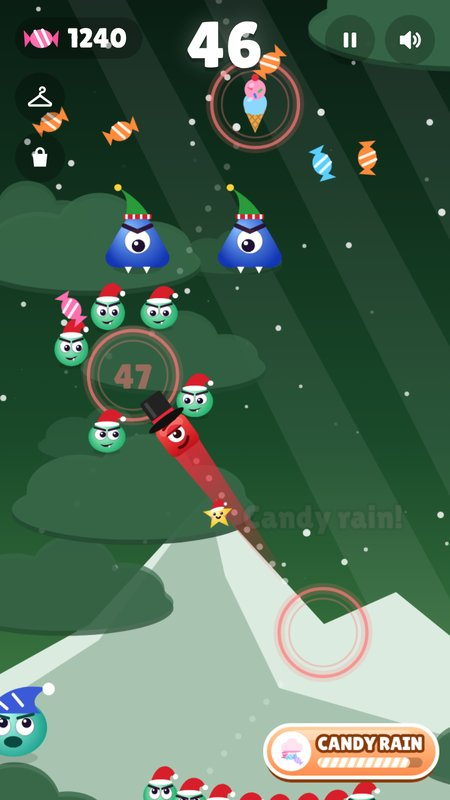
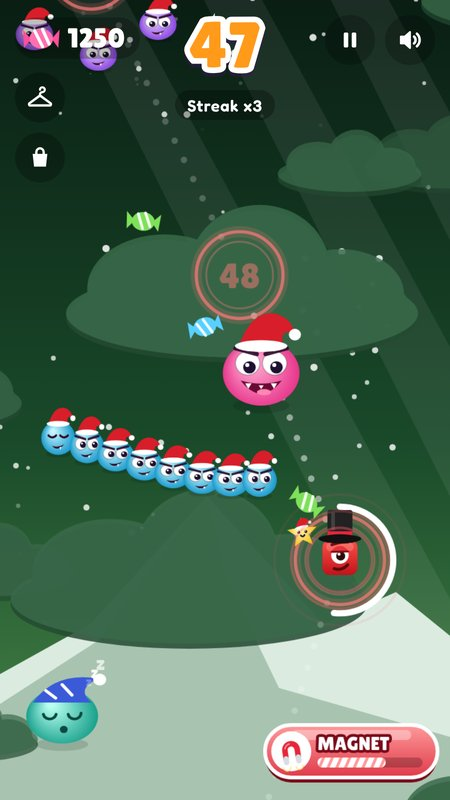
Paneles de caramelo con lunares y borde con labio, cintas con puntas dobladas y letras tipo sticker

diff --git a/index.html b/index.html
@@ -29,8 +29,7 @@ body{height:100%;margin:0;background:var(--void);color:var(--ink);font-family:va
 #game.gray{filter:grayscale(1) brightness(1.05)}
 
 #hud{position:absolute;top:10px;left:0;right:0;display:flex;justify-content:center;pointer-events:none}
-#score{font-family:var(--display);font-size:52px;line-height:1;color:#fff;
-  text-shadow:0 3px 0 rgba(0,0,0,.25),0 0 18px rgba(255,255,255,.25);font-variant-numeric:tabular-nums}
+#score{font-family:var(--display);font-size:52px;line-height:1;color:#ff9a1a;--sw:9px;--ss:rgba(60,20,90,.45);font-variant-numeric:tabular-nums}
 #candy{position:absolute;top:14px;left:max(12px,env(safe-area-inset-left,0px));display:flex;align-items:center;gap:6px;
   padding:4px 12px 4px 6px;border-radius:99px;background:rgba(0,0,0,.25);pointer-events:none;transition:transform .12s}
 #candy.bump{transform:scale(1.18)}
@@ -264,7 +263,7 @@ body[data-ev="christmas"] #evBtn{background:rgba(255,255,255,.18)}
 .item canvas,.item img{width:64px;height:64px}
 .buy{border:0;border-radius:99px;padding:4px 10px;font:600 12px var(--body);cursor:pointer;background:#e0408e;color:#fff;min-width:64px}
 .buy:disabled{background:#c9b8a8;cursor:not-allowed}
-.sheet{scrollbar-width:none;overflow-x:hidden;box-sizing:border-box;width:min(100%,440px);max-height:100%;overflow:auto;background:linear-gradient(#fbeacb,var(--cream));border:6px solid var(--cream-edge);border-radius:28px;
+.sheet{scrollbar-width:none;overflow-x:hidden;box-sizing:border-box;width:min(100%,440px);max-height:100%;overflow:auto;background:var(--candyPanel);border:6px solid #fff;box-shadow:var(--candyRim);border-radius:28px;
   padding:18px 16px 20px;display:flex;flex-direction:column;align-items:center;gap:10px;color:#5b3210}
 .sheet > .pill{display:none}   /* closing is done with the X at the top (and by tapping outside) */
 .xClose{position:sticky;top:0;align-self:flex-end;margin:-6px -4px -44px 0;z-index:3;width:42px;height:42px;flex:none;border-radius:50%;cursor:pointer;
@@ -301,9 +300,24 @@ body[data-ev="christmas"] #evBtn{background:rgba(255,255,255,.18)}
 @keyframes pulse{50%{transform:scale(1.08);opacity:.8}}
 
 #over{background:rgba(30,30,30,.25)}
-.card{position:relative;width:min(86%,330px);background:linear-gradient(#fbeacb,var(--cream));border:6px solid var(--cream-edge);
-  border-radius:34px;padding:58px 20px 26px;box-shadow:0 18px 40px rgba(0,0,0,.35);
+.card{position:relative;width:min(86%,330px);background:var(--candyPanel);border:6px solid #fff;
+  border-radius:34px;padding:58px 20px 26px;box-shadow:var(--candyRim);
   display:flex;flex-direction:column;align-items:center;gap:14px;animation:panelIn .62s both}
+/* candy panels: cream with soft pink and orange dots, a shine on top, a white edge and a caramel rim with a darker lip below */
+:root{--candyPanel:radial-gradient(closest-side,rgba(255,255,255,.8),rgba(255,255,255,0)) 50% 6px/84% 28px no-repeat,
+  radial-gradient(circle,rgba(255,150,190,.2) 3px,transparent 3.5px) 0 0/22px 22px,radial-gradient(circle,rgba(255,190,110,.2) 3px,transparent 3.5px) 11px 11px/22px 22px,linear-gradient(#fff6e2,#fbe2b8);
+  --candyRim:0 0 0 5px #d99a52,0 9px 0 5px #a8662a,0 18px 30px rgba(0,0,0,.4),inset 0 -6px 0 rgba(200,140,70,.25)}
+/* sticker lettering: a thick white outline and a drop below */
+.sheet h2,.card .hint,.scores b,#score{paint-order:stroke fill;-webkit-text-stroke:var(--sw,8px) #fff;filter:drop-shadow(0 3px 0 var(--ss,rgba(120,50,10,.4)))}
+.sheet h2{color:#e8263a;--ss:rgba(140,20,10,.4)}
+.card .hint{--sw:6px}
+.card .hint.red{color:#e8263a;--ss:rgba(120,10,10,.35)}.card .hint.green{color:#2fae2c;--ss:rgba(20,80,20,.35)}
+.scores b{--sw:7px}
+/* title ribbons fold back at both ends, like a gift ribbon */
+.ribbon{--rd:var(--red-deep)}.ribbon.blue{--rd:#1a3a9a}.ribbon.gold{--rd:#a86400}#over.record .ribbon{--rd:#145214}
+.ribbon::before,.ribbon::after{content:"";position:absolute;z-index:-1;top:18px;bottom:-12px;width:30px;background:var(--rd)}
+.ribbon::before{right:100%;clip-path:polygon(0 0,100% 0,100% 100%,0 100%,32% 50%)}
+.ribbon::after{left:100%;clip-path:polygon(0 0,100% 0,68% 50%,100% 100%,0 100%)}
 .ribbon{position:absolute;top:-26px;left:50%;transform:translateX(-50%);font-family:var(--display);font-size:40px;color:#fff;
   padding:4px 26px 8px;border-radius:20px;background:linear-gradient(#ff5b3a,var(--red));border:4px solid #fff;
   box-shadow:0 5px 0 var(--red-deep),0 10px 18px rgba(0,0,0,.25);text-shadow:0 3px 0 var(--red-deep);white-space:nowrap}
@@ -319,7 +333,7 @@ body[data-ev="christmas"] #evBtn{background:rgba(255,255,255,.18)}
 .ringProg .bar i{display:block;height:100%;border-radius:99px;background:linear-gradient(90deg,#ffb03a,#f2490a)}
 .scores div{display:flex;flex-direction:column;align-items:center}
 .scores span{font-size:12px;font-weight:700;letter-spacing:.12em;text-transform:uppercase;opacity:.75}
-.scores b{font-family:var(--display);font-weight:400;font-size:34px;color:#5b3210;font-variant-numeric:tabular-nums}
+.scores b{font-family:var(--display);font-weight:400;font-size:34px;color:#f2490a;font-variant-numeric:tabular-nums}
 .btn-retry{width:112px;height:112px;border-radius:50%;border:6px solid #fff;cursor:pointer;
   background:radial-gradient(circle at 40% 30%,#ff6a5a,var(--red) 60%,var(--red-deep));
   box-shadow:0 6px 0 #8c0c12,0 12px 20px rgba(0,0,0,.25);display:grid;place-items:center;transition:transform .12s}
